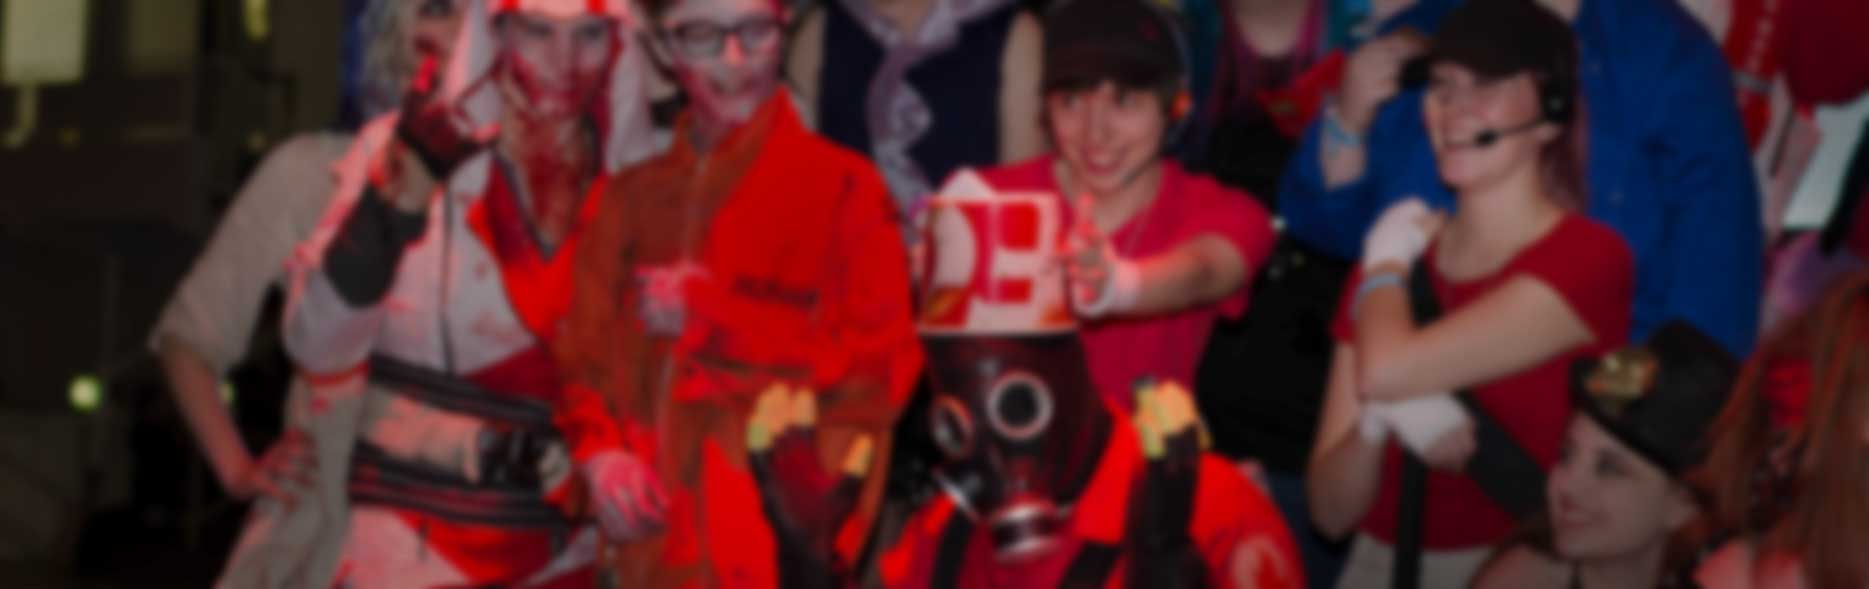
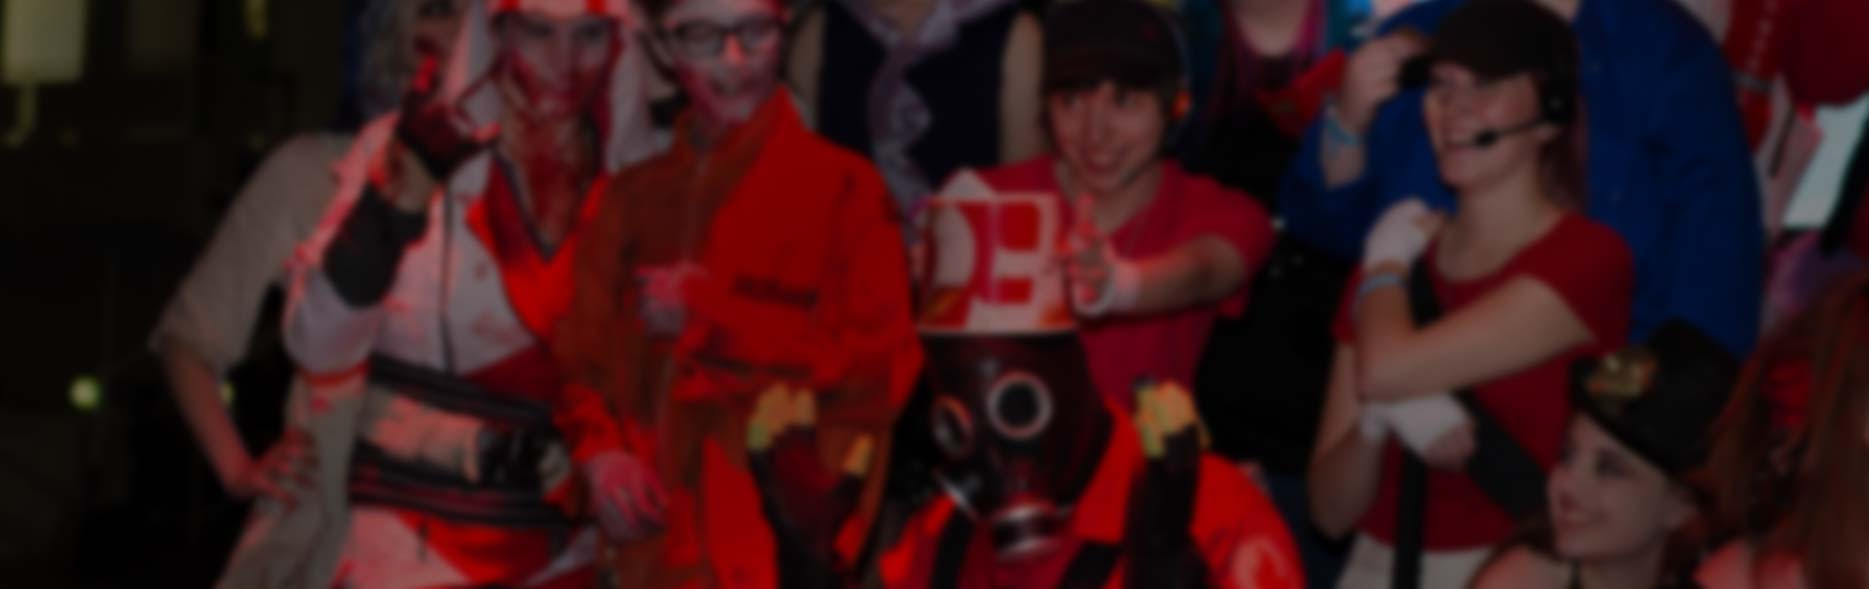
Updated expo links so they're target-new. Added contrast to the Cosplay hero image. Updated some copy.

diff --git a/css/expo.css b/css/expo.css
@@ -114,6 +114,7 @@
 .cosplay-hero h4,
 .cosplay-hero p {
   color: #FFF;
+  text-shadow: 0px 0px 10px rgba(0,0,0,1);
 }
 
 .cosplay-hero .image-credit a {

diff --git a/index.php b/index.php
@@ -14,7 +14,7 @@
               <p class="event-note">Please note: We will <strong>not</strong> be holding our normal Thursday event in December. See you at the expo!</p>
             </div>
             <div class="small-12 medium-7 columns">
-              <p class="expo-description">The Indienomicon Expo showcases independent games made in Central Florida. This event is free and open to the public! Play indie games, talk to game developers, and make new friends.</p>
+              <p class="expo-description">Join us for an amazing festival showcasing independent games made in Central Florida. This event is free and open to the public! Play indie games, talk to game developers, have fun and make new friends.</p>
               <ul class="social">
                 <li class="facebook"><a href="http://www.facebook.com/indienomicon" target="new">Facebook</a></li>
                 <li class="twitter"><a href="http://www.twitter.com/indienomicon" target="new">Twitter</a></li>
@@ -23,9 +23,9 @@
               <div class="expo-sponsors">
                 <h3>Sponsored By</h3>
                 <ul class="small-block-grid-3">
-                  <li><a href="http://tic.ocls.info/"><img src="img/expo/sponsors/sponsor_melrosecenter.png" alt="The Dorthy Lumley Melrose Center: Technology, Innovation, Creativity"></a></li>
-                  <li><a href="http://gamesartandmusic.com/"><img src="img/expo/sponsors/sponsor_gaam.png" alt="GAAM: Games Art and Music"></a></li>
-                  <li><a href="https://factur.org/"><img src="img/expo/sponsors/sponsor_factur.png" alt="Factur"></a></li>
+                  <li><a href="http://tic.ocls.info/" target="new"><img src="img/expo/sponsors/sponsor_melrosecenter.png" alt="The Dorthy Lumley Melrose Center: Technology, Innovation, Creativity"></a></li>
+                  <li><a href="http://gamesartandmusic.com/" target="new"><img src="img/expo/sponsors/sponsor_gaam.png" alt="GAAM: Games Art and Music"></a></li>
+                  <li><a href="https://factur.org/" target="new"><img src="img/expo/sponsors/sponsor_factur.png" alt="Factur"></a></li>
                 <ul>
               </div>
             </div>
@@ -58,24 +58,25 @@
         <h2 id="featured-exhibitors">Featured Games and Studios</h2>
         <p>Play indie games and meet their creators! Even more studios and games are coming, so stay tuned.</p>
         <ul class="small-block-grid-3 medium-block-grid-5 large-block-grid-6">
-          <li><a href="http://phykenmedia.com/"><img src="img/expo/exhibitors/studio_phykenmedia.png" alt="Phyken Media"></a></li>
-          <li><a href="http://www.terncraftgames.com/"><img src="img/expo/exhibitors/studio_terncraft.png" alt="Terncraft Games"></a></li>
-          <li><a href="http://www.periareion.com/#!tba-games/c5hv"><img src="img/expo/exhibitors/studio_tbagames.png" alt="TBA Games"></a></li>
-          <li><a href="http://www.periareion.com/"><img src="img/expo/exhibitors/game_periareion.png" alt="Periareion"></a></li>
-          <li><a href="http://www.cellecgames.com/"><img src="img/expo/exhibitors/studio_cellecgames.png" alt="Cellec Games"></a></li>
-          <li><a href="https://www.facebook.com/SuperKawaiiTurtleFighter"><img src="img/expo/exhibitors/game_superkawaiiturtlefighter.png" alt="Super Kawaii Turtle Fighter"></a></li>
-          <li><a href="http://dropsytheclown.com/"><img src="img/expo/exhibitors/studio_tendershoot.png" alt="Tendershoot"></a></li>
-          <li><a href="http://dropsytheclown.com/"><img src="img/expo/exhibitors/game_dropsy.png" alt="Dropsy"></a></li>
-          <li><a href="https://www.facebook.com/magicitegame"><img src="img/expo/exhibitors/studio_smashgames.png" alt="Smash Games"></a></li>
-          <li><a href="https://www.facebook.com/magicitegame"><img src="img/expo/exhibitors/game_magicite.png" alt="Magicite"></a></li>
-          <li><a href="http://hapagames.com/"><img src="img/expo/exhibitors/studio_hapagames.png" alt="Hapa Games"></a></li>
-          <li><a href="http://hapagames.com/"><img src="img/expo/exhibitors/game_ascendant.png" alt="Ascendant"></a></li>
-          <li><a href="http://www.thatwhichismedia.com/"><img src="img/expo/exhibitors/studio_thatwhichismedia.png" alt="ThatWhichIsMedia"></a></li>
-          <li><a href="http://crazyrockcreative.com/omega-hero/"><img src="img/expo/exhibitors/game_omegahero.png" alt="Omega Hero"></a></li>
-          <li><a href="http://www.burnoutgameventures.com/"><img src="img/expo/exhibitors/studio_burnoutgameventures.png" alt="Burnout Game Ventures"></a></li>
-          <li><a href="http://threedeadzed.com/"><img src="img/expo/exhibitors/game_3deadzed.png" alt="Three Dead Zed"></a></li>
-          <li><a href="http://www.riseoftheravager.com/"><img src="img/expo/exhibitors/game_riseoftheravager.png" alt="Rise of the Ravager"></a></li>
-          <li><a href="http://www.gentlemansquidstudio.com/"><img src="img/expo/exhibitors/studio_gentlemensquid.png" alt="Gentlemen Squid Studio"></a></li>
+          <li><a href="http://phykenmedia.com/" target="new"><img src="img/expo/exhibitors/studio_phykenmedia.png" alt="Phyken Media"></a></li>
+          <li><a href="http://www.terncraftgames.com/" target="new"><img src="img/expo/exhibitors/studio_terncraft.png" alt="Terncraft Games"></a></li>
+          <li><a href="http://www.periareion.com/#!tba-games/c5hv" target="new"><img src="img/expo/exhibitors/studio_tbagames.png" alt="TBA Games"></a></li>
+          <li><a href="http://www.periareion.com/" target="new"><img src="img/expo/exhibitors/game_periareion.png" alt="Periareion"></a></li>
+          <li><a href="http://www.cellecgames.com/" target="new"><img src="img/expo/exhibitors/studio_cellecgames.png" alt="Cellec Games"></a></li>
+          <li><a href="https://www.facebook.com/SuperKawaiiTurtleFighter" target="new"><img src="img/expo/exhibitors/game_superkawaiiturtlefighter.png" alt="Super Kawaii Turtle Fighter"></a></li>
+          <li><a href="http://dropsytheclown.com/" target="new"><img src="img/expo/exhibitors/studio_tendershoot.png" alt="Tendershoot"></a></li>
+          <li><a href="http://dropsytheclown.com/" target="new"><img src="img/expo/exhibitors/game_dropsy.png" alt="Dropsy"></a></li>
+          <li><a href="https://www.facebook.com/magicitegame" target="new"><img src="img/expo/exhibitors/studio_smashgames.png" alt="Smash Games"></a></li>
+          <li><a href="https://www.facebook.com/magicitegame" target="new"><img src="img/expo/exhibitors/game_magicite.png" alt="Magicite"></a></li>
+          <li><a href="http://hapagames.com/" target="new"><img src="img/expo/exhibitors/studio_hapagames.png" alt="Hapa Games"></a></li>
+          <li><a href="http://hapagames.com/" target="new"><img src="img/expo/exhibitors/game_ascendant.png" alt="Ascendant"></a></li>
+          <li><a href="http://www.thatwhichismedia.com/" target="new"><img src="img/expo/exhibitors/studio_thatwhichismedia.png" alt="ThatWhichIsMedia"></a></li>
+          <li><a href="http://crazyrockcreative.com/omega-hero/" target="new"><img src="img/expo/exhibitors/game_omegahero.png" alt="Omega Hero"></a></li>
+          <li><a href="http://www.burnoutgameventures.com/" target="new"><img src="img/expo/exhibitors/studio_burnoutgameventures.png" alt="Burnout Game Ventures"></a></li>
+          <li><a href="http://www.gentlemansquidstudio.com/" target="new"><img src="img/expo/exhibitors/studio_gentlemensquid.png" alt="Gentlemen Squid Studio"></a></li>
+          <li><a href="http://threedeadzed.com/" target="new"><img src="img/expo/exhibitors/game_3deadzed.png" alt="Three Dead Zed"></a></li>
+          <li><a href="http://www.riseoftheravager.com/" target="new"><img src="img/expo/exhibitors/game_riseoftheravager.png" alt="Rise of the Ravager"></a></li>
+          <li><a href="https://www.theindiebox.com/" target="new"><img src="img/expo/exhibitors/company_indiebox.png" alt="Indiebox"></a></li>
         <ul>
       </div>
     </section>
@@ -93,7 +94,7 @@
           <div class="small-12 medium-6 columns">
             <h3><strong>Indie Origins Panel Discussion</strong></h3>
             <h4>2:30pm</h4>
-            <p>Hear the origin story of how a local Orlando game development studio began! You won't want to miss this special panel discussion from real game developers.</p>
+            <p>Hear the amazing, deep, dark, twisted and death defying origin stories of how several of our humble Orlando indie game studios began! ...Ok fine perhaps that’s being a bit over dramatic, but listen, starting a games studio isn’t easy! It takes a lot of effort and resources to do to start a studio and these are their stories.</p>
           </div>
         </div>
       </div>
